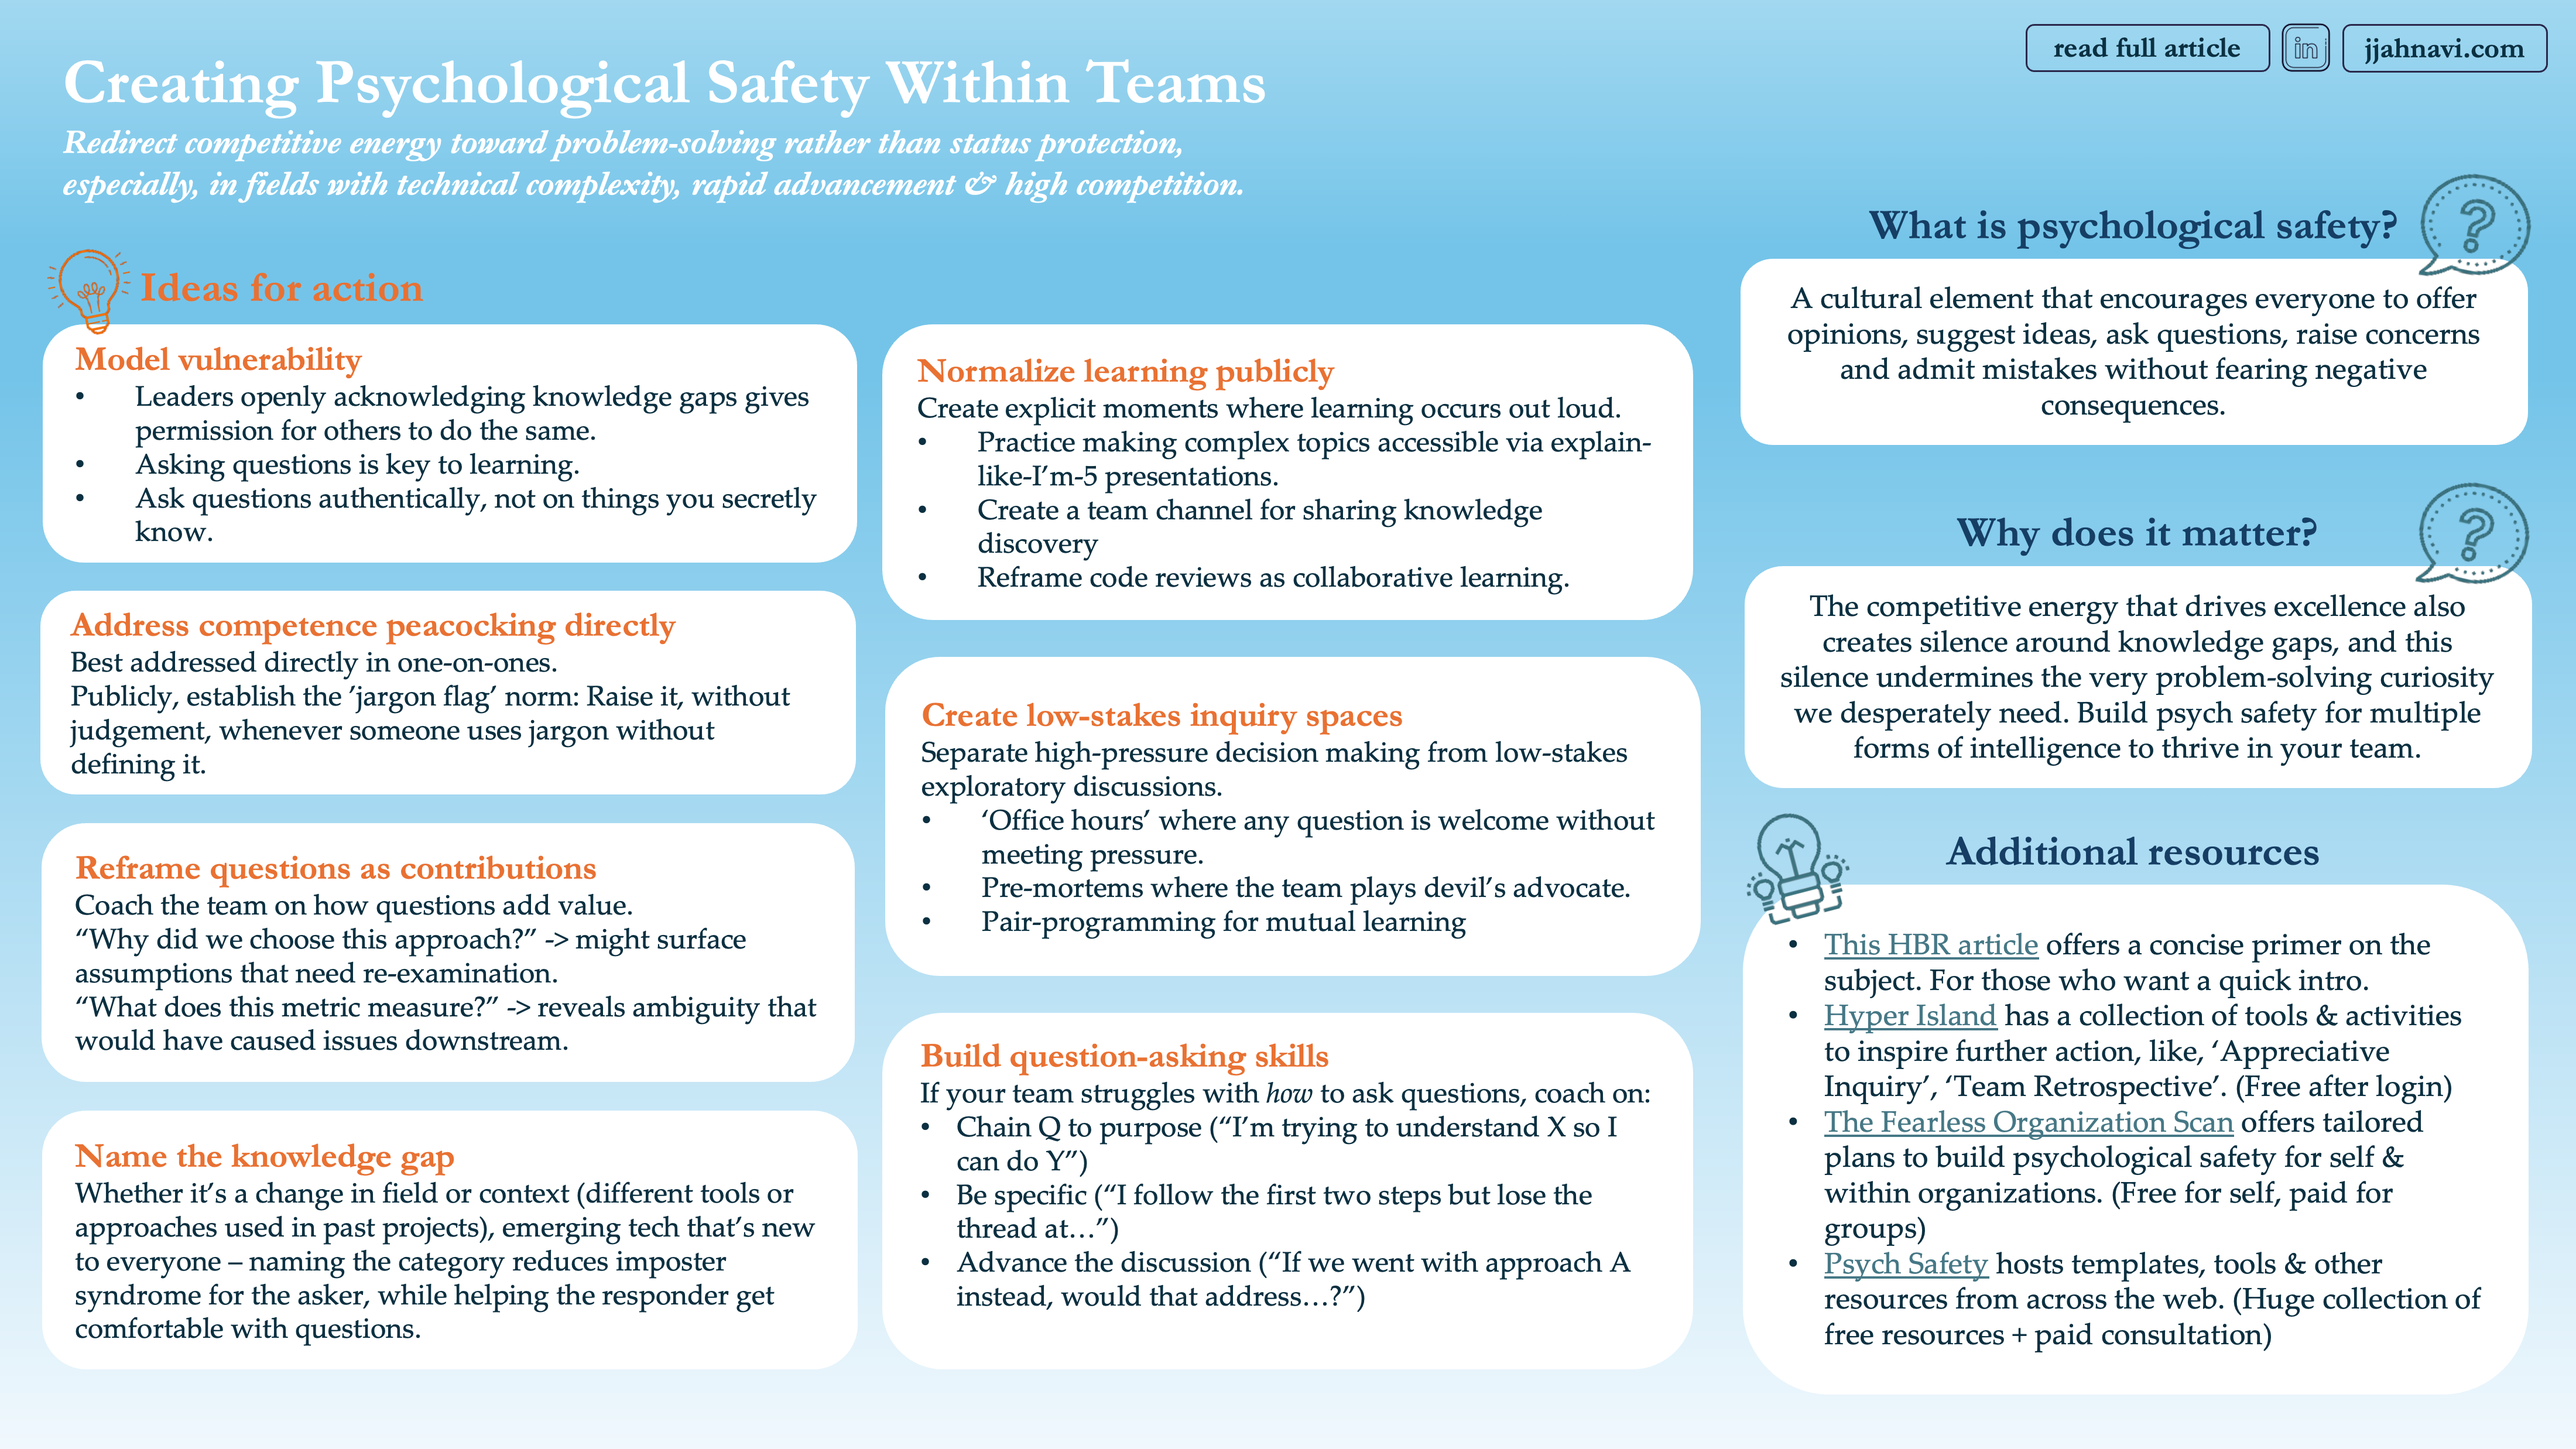
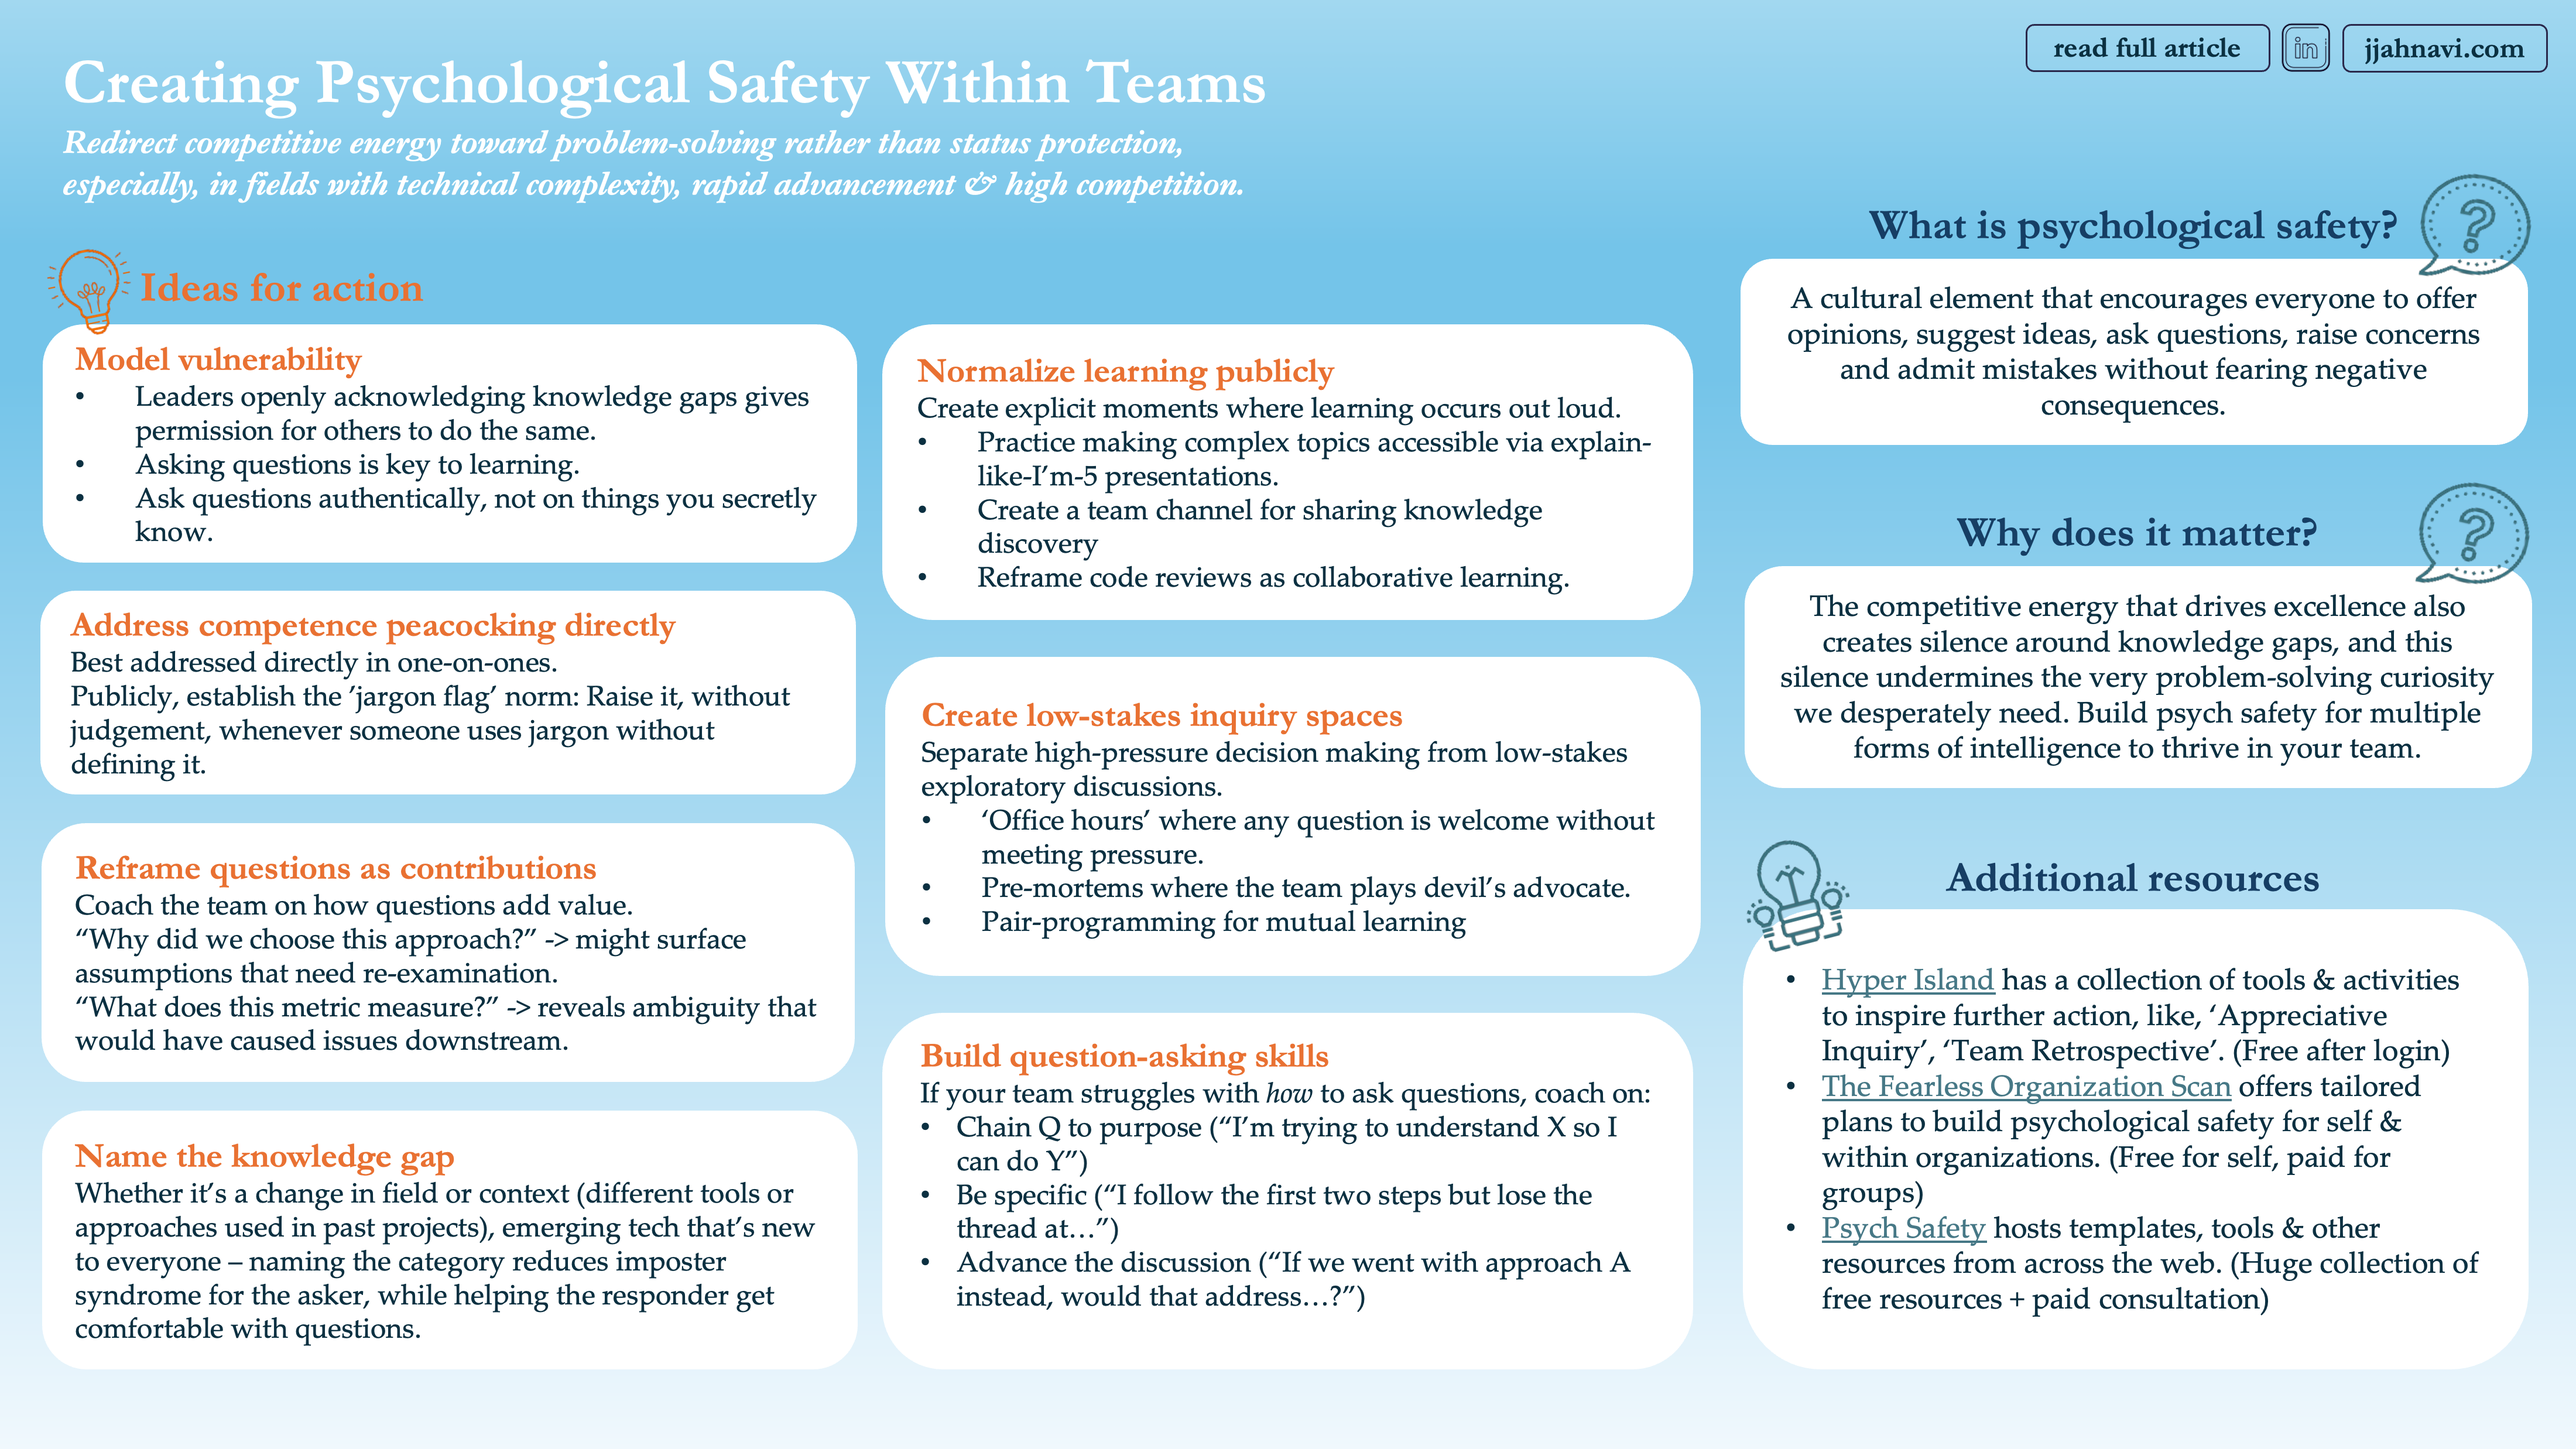
new post & past updates

Changed region(s): [[0.6539, 0.56, 0.9964, 0.9333]]

diff --git a/_resources/amplifying-resources.md b/_resources/amplifying-resources.md
@@ -1,0 +1,30 @@
+---
+title: "Amplifying The Voices That Have Inspired Me"
+# excerpt: ""
+excerpt_separator: "<!--more-->" 
+tags: 
+    - writing
+    - 
+---
+{% include toc %}
+
+### On Writing   
+* [The Case for Blogging in the Ruins](https://www.joanwestenberg.com/the-case-for-blogging-in-the-ruins/){:target="_blank"} by Joan Westenberg
+> "The blog, at its best (a best I aspire one day to reach) is Montaigne's direct descendant. It's a form that allows for intellectual exploration without demanding premature certainty. You can write a post working through an idea, acknowledge in the post itself that you're not sure where you'll end up, and invite readers to think alongside you. You can return to the topic weeks later with updated thoughts. The format accommodates the actual texture of thinking, which is messy and recursive and full of wrong turns.
+> 
+> Social media flattens all of this into statements: Everything you post is implicitly a declaration. Even if you add caveats, the format strips them away. What travels is the hot take, the dunked-on screenshot, the increasingly-shitty meme, the version of your argument that fits in a shareable image with the source cropped out.
+> 
+> I keep thinking about how many interesting folks have essentially stopped writing anything substantial because they've moved their entire intellectual presence to Twitter or Substack Notes. These are people who used to produce ten-thousand-word explorations of complex topics, and now they produce dozens of disconnected fragments per day, each one optimized for immediate engagement and none of them building toward anything coherent.
+> 
+> It's like watching someone who used to compose symphonies decide to only produce ringtones."
+This excerpt says it all. And she wraps it up with platform suggestions to begin creating your digital space. 
+Thanks [@joanwestenberg](https://www.joanwestenberg.com/){:target="_blank"} for weaving ideas that I have felt in my bones but hadn't strung together into a coherent message until now. 
+
+### On building sustainable data teams well
+* [How to Build Indespesible Data Teams](https://locallyoptimistic.com/post/the-five-laws-of-data-enablement-how-the-father-of-library-science-would-make-his-data-team-indispensable/) by Amalia Child
+
+
+
+
+
+

diff --git a/_posts/2026-09-10-tech-in-digestible-chunks.md b/_posts/2026-09-10-tech-in-digestible-chunks.md
@@ -1,0 +1,11 @@
+---
+title: "Tech in Digestible Chunks"
+tags:
+  - tech literacy
+  - 
+
+link: https://theusersunion.beehiiv.com/p/newsletter-tech-in-digestible-chunks
+---
+
+I compiled a list for The Users Union on resources to demystify the tech landscape.
+This is my way of tipping my hat to the chroniclers & guides who simply our overwhelming world.  
